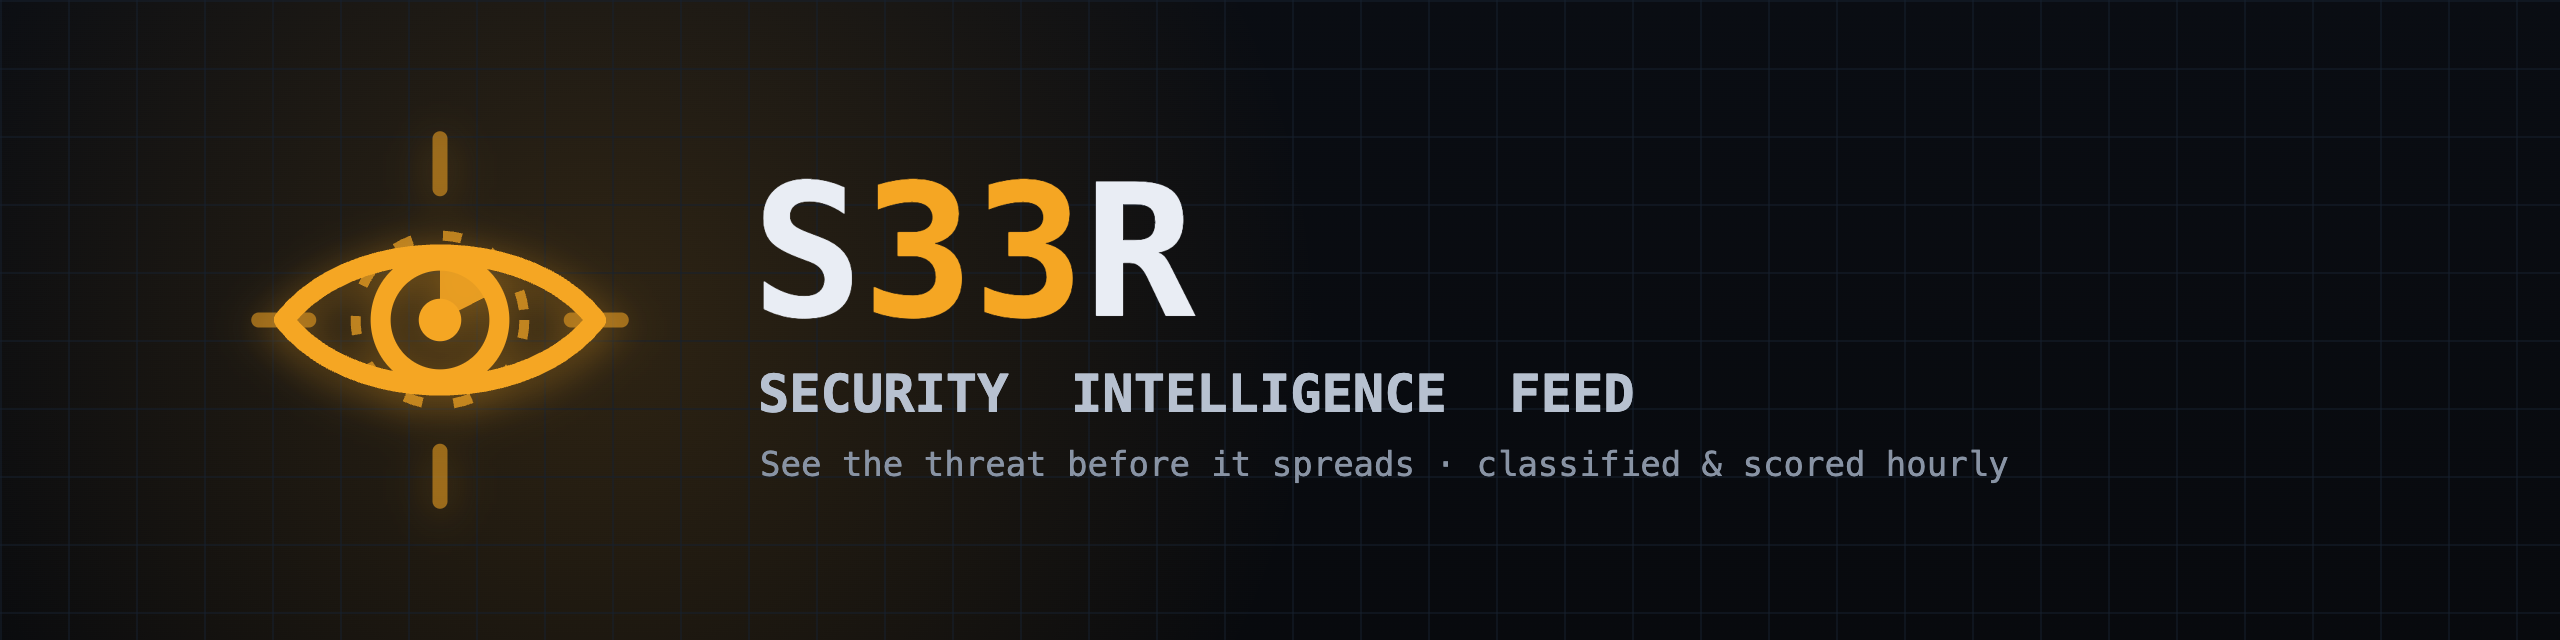
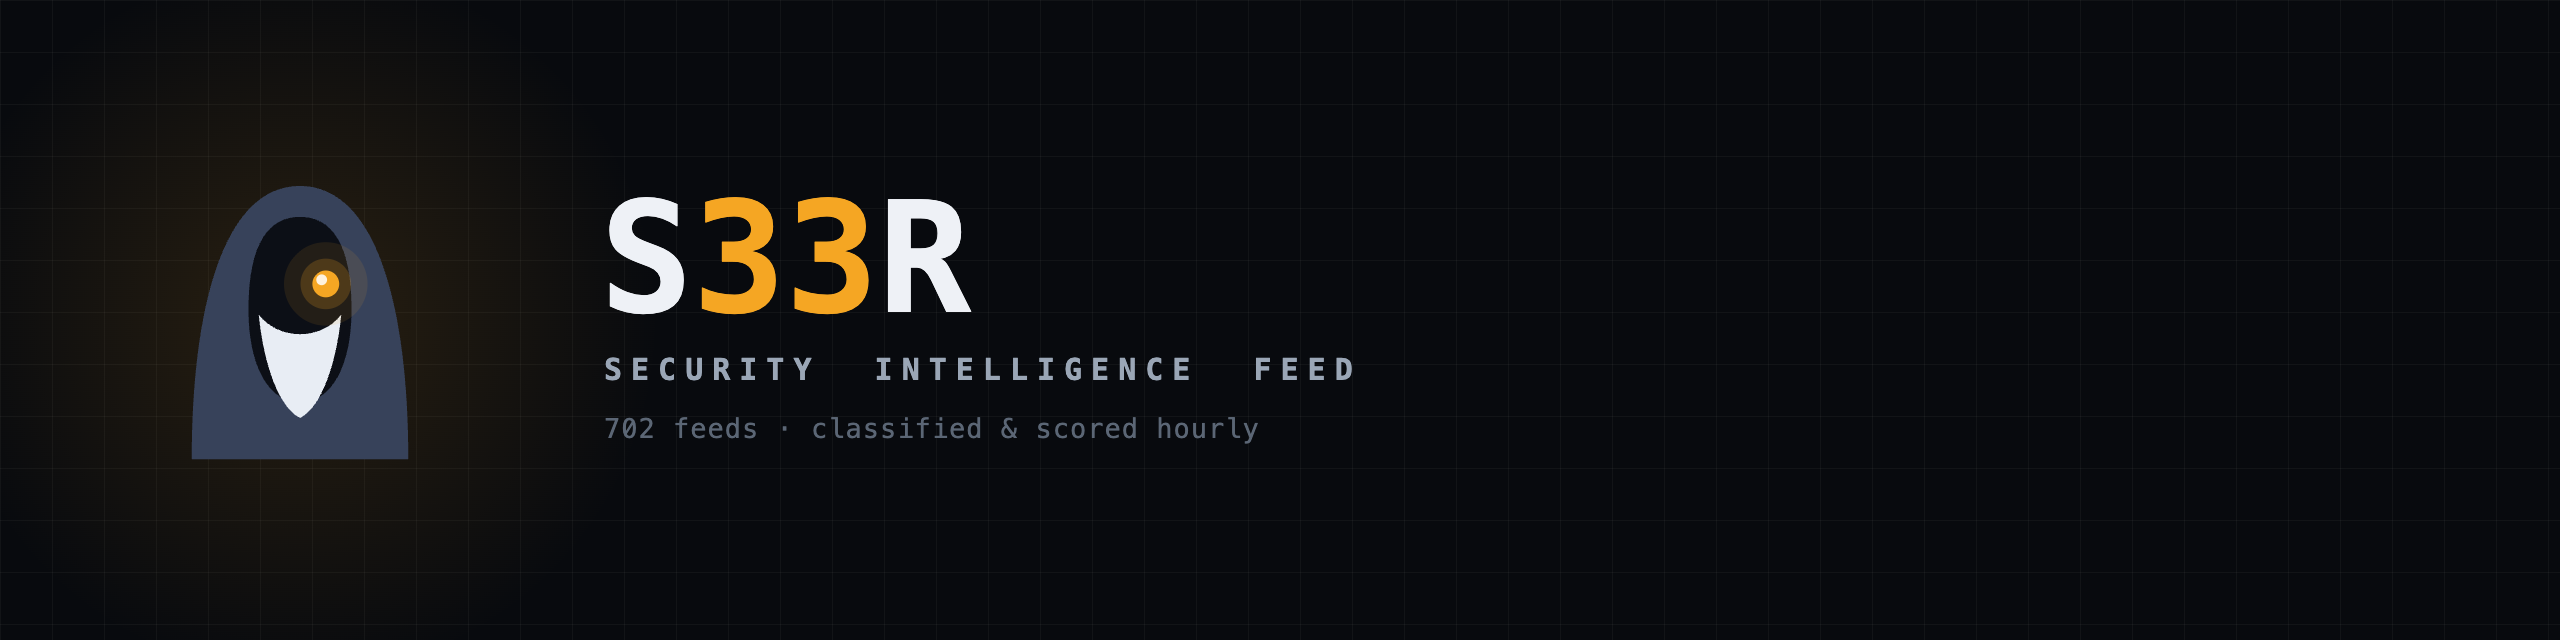
Update brand assets and documentation with new SEER identity and translations

Changed region(s): [[0.0625, 0.0312, 0.7812, 0.9375]]

diff --git a/brand/HANDOFF.md b/brand/HANDOFF.md
@@ -1,28 +1,28 @@
-# S33R - Brand Integration Handoff
+# S33R — Handoff de integração da marca
 
-Package with the **SEER** identity (surveillance eye). Below is exactly what to apply in the repo.
+Pacote com a identidade **SEER** — o vidente encapuzado de um olho. Abaixo, exatamente o que aplicar no repo. Substitui a pasta `brand/` antiga (que usava o olho/mira).
 
-## 1. Add the `brand/` folder
+## 1. Adicionar a pasta `brand/`
 
-Copy the entire `brand/` folder to the **repo root**. In the Jekyll site, it will be available at `/brand/`.
+Copie a pasta `brand/` inteira para a **raiz do repo** (no site Jekyll ela já fica acessível em `/brand/`).
 
 ```
 brand/
-├── seer-mark.svg          standalone symbol (amber, editable)
-├── logo.svg               symbol + wordmark lockup (dark theme)
-├── logo-light.svg         lockup for light backgrounds
-├── favicon.svg            vector favicon (amber tile + eye)
-├── favicon-16.png         favicon 16×16 (simplified version)
+├── seer-mark.svg          símbolo isolado, full-color (capuz + barba + olho)
+├── logo.svg               lockup símbolo + wordmark (tema escuro)
+├── logo-light.svg         lockup para fundo claro
+├── favicon.svg            favicon vetorial (tile âmbar + Seer em tinta)
+├── favicon-16.png         favicon 16×16
 ├── favicon-32.png         favicon 32×32
 ├── favicon-48.png         favicon 48×48
-├── apple-touch-icon.png   iOS icon 180×180
-├── readme-banner.png      1280×320 banner (@2x) for the README top
-└── README.md              brand sheet / snippets
+├── apple-touch-icon.png   ícone iOS 180×180
+├── readme-banner.png      banner 2560×640 (@2x) para o topo do README
+└── README.md              ficha da marca / snippets
 ```
 
-## 2. Repo README banner
+## 2. Banner no README do repo
 
-At the top of the main `README.md`:
+No topo do `README.md` principal:
 
 ```markdown
 <p align="center">
@@ -30,9 +30,9 @@ At the top of the main `README.md`:
 </p>
 ```
 
-## 3. Favicon in each page `<head>`
+## 3. Favicon no `<head>` de cada página
 
-**Standalone pages (`*.html`):**
+**Páginas standalone (`*.html`):**
 ```html
 <link rel="icon" type="image/svg+xml" href="brand/favicon.svg" />
 <link rel="icon" type="image/png" sizes="32x32" href="brand/favicon-32.png" />
@@ -40,7 +40,7 @@ At the top of the main `README.md`:
 <link rel="apple-touch-icon" href="brand/apple-touch-icon.png" />
 ```
 
-**Jekyll pages (using `relative_url`):**
+**Páginas Jekyll (usam `relative_url`):**
 ```html
 <link rel="icon" type="image/svg+xml" href="{{ '/brand/favicon.svg' | relative_url }}" />
 <link rel="icon" type="image/png" sizes="32x32" href="{{ '/brand/favicon-32.png' | relative_url }}" />
@@ -48,29 +48,30 @@ At the top of the main `README.md`:
 <link rel="apple-touch-icon" href="{{ '/brand/apple-touch-icon.png' | relative_url }}" />
 ```
 
-## 4. Replace the shield with the SEER eye in the rail
+## 4. Trocar o ícone do rail pelo Seer encapuzado
 
-The rail is mounted in **`s33r-nav.js`**. Two changes:
+O rail é montado em **`s33r-nav.js`**. O chip `.rail-logo` é âmbar com conteúdo em tinta — então o Seer entra como silhueta `currentColor` e o **olho é um furo** (`fill-rule:evenodd`) por onde o âmbar do chip aparece e "acende".
 
-**(a)** add the `seer` icon to the `ICONS` object:
+**(a)** adicione/atualize o ícone `seer` no objeto `ICONS` (viewBox 64):
 ```js
-seer: '<path d="M7 32 C18 18 46 18 57 32 C46 46 18 46 7 32 Z" fill="none" stroke="currentColor" stroke-width="3.6" stroke-linejoin="round"/><circle cx="32" cy="32" r="9.5" fill="none" stroke="currentColor" stroke-width="3.6"/><path d="M32 32 L32 22.5 A9.5 9.5 0 0 1 40.7 27.6 Z" fill="currentColor"/><circle cx="32" cy="32" r="3.4" fill="currentColor"/>',
+seer: '<path fill="currentColor" fill-rule="evenodd" d="M11 59 C11 30 17 6 32 6 C47 6 53 30 53 59 Z M37 22 a3 3 0 1 0 0 6 a3 3 0 1 0 0 -6 Z"/>',
 ```
 
-**(b)** replace the `<a class="rail-logo">` so it uses the new icon (viewBox 64):
+**(b)** troque o `<a class="rail-logo">` para usar o novo ícone (note `fill`, sem `stroke`):
 ```js
-`<a class="rail-logo" href="${hrefFor("S33R Feed.html", "")}" title="S33R — the SEER"><svg width="25" height="25" viewBox="0 0 64 64" fill="none" stroke-linecap="round">${ICONS.seer}</svg></a>`
+`<a class="rail-logo" href="${hrefFor("S33R Feed.html", "")}" title="S33R — the SEER"><svg width="26" height="26" viewBox="0 0 64 64">${ICONS.seer}</svg></a>`
 ```
 
-For pages with an **inline** rail (for example the home `index.html`), replace the shield SVG inside `.rail-logo` / `.nav-brand` with the same `seer` content (viewBox `0 0 64 64`).
+Para páginas com o rail **inline** (ex.: `index.html` da home), substitua o SVG dentro de `.rail-logo` / `.nav-brand` pelo mesmo conteúdo do `seer` (viewBox `0 0 64 64`, `fill`).
 
-## 5. Colors
+## 5. Cores
 
-| Token | Value |
+| Token | Valor |
 |---|---|
-| Amber (brand) - dark theme | `#f5a623` |
-| Amber (brand) - light theme | `#c9790a` |
-| Ink (on amber) | `#1b1304` |
-| Dark background | `#080a0e` |
+| Âmbar (brand) — tema escuro | `#f5a623` |
+| Âmbar (brand) — tema claro | `#c9790a` |
+| Ink (sobre âmbar) | `#1b1304` |
+| Capuz / barba / sombra (mark full-color) | `#37425a` · `#e8edf4` · `#0c0f16` |
+| Fundo escuro | `#080a0e` |
 
-> Note: the 16px favicon uses a minimal eye drawing (without reticle/ring) so it reads well at that size; 32px+ show the full mark.
+> Obs.: o favicon usa o Seer em tinta sobre tile âmbar com o olho âmbar destacado — lê bem de 48px a 16px. **Um só olho acende; nada de multiplicar cores quentes.**

diff --git a/brand/README.md b/brand/README.md
@@ -5,21 +5,21 @@
 
 # S33R — Brand Kit
 
-**The SEER.** S33R is leet for *SEER* (one who sees). The symbol is a technical eye scanning for threats: almond-shaped outline, radar-sweep iris, and targeting reticle. Amber palette (`#f5a623`) on a dark background (`#080a0e`), with a monospace stroke style that matches the UI.
+**The SEER.** S33R é leet para *SEER* (aquele que vê). A marca é **um vidente encapuzado** — um guardião do conhecimento que lê os sinais antes dos outros. Silhueta de capuz geométrica, barba clara e **um único olho âmbar que brilha** (`#f5a623`) sobre fundo escuro (`#080a0e`). Sem mira, sem escudo, sem cadeado — o personagem *é* a identidade. Wordmark monospace, coerente com a UI.
 
-## Files
+## Arquivos
 
-| File | Use |
+| Arquivo | Uso |
 |---|---|
-| `readme-banner.png` | README top banner (1280×320 @2x) |
-| `seer-mark.svg` | Standalone editable symbol (amber) |
-| `logo.svg` | Symbol + wordmark lockup (dark theme) |
-| `logo-light.svg` | Lockup for light backgrounds |
-| `favicon.svg` | Vector favicon (amber tile + eye) |
+| `readme-banner.png` | Banner do topo do README (2560×640 @2x) |
+| `seer-mark.svg` | Símbolo isolado, full-color (capuz + barba + olho) |
+| `logo.svg` | Lockup símbolo + wordmark (tema escuro) |
+| `logo-light.svg` | Lockup para fundo claro |
+| `favicon.svg` | Favicon vetorial (tile âmbar + Seer em tinta) |
 | `favicon-16.png` / `favicon-32.png` / `favicon-48.png` | Favicons raster |
-| `apple-touch-icon.png` | iOS icon (180×180) |
+| `apple-touch-icon.png` | Ícone iOS (180×180) |
 
-## README Banner
+## Banner no README
 
 ```markdown
 <p align="center">
@@ -27,7 +27,7 @@
 </p>
 ```
 
-## Favicon in `<head>`
+## Favicon no `<head>`
 
 ```html
 <link rel="icon" type="image/svg+xml" href="brand/favicon.svg" />
@@ -36,8 +36,12 @@
 <link rel="apple-touch-icon" href="brand/apple-touch-icon.png" />
 ```
 
-## Colors
+## Cores
 
-- Amber (brand): `#f5a623` - use `#c9790a` on light themes
-- Ink (on amber): `#1b1304`
-- Dark background: `#080a0e`
+- Âmbar (brand): `#f5a623` — em tema claro use `#c9790a`
+- Olho / acento: âmbar `#f5a623` (único ponto de cor quente)
+- Capuz (escuro): `#37425a` · Barba: `#e8edf4` · Sombra do rosto: `#0c0f16`
+- Ink (sobre âmbar): `#1b1304`
+- Fundo escuro: `#080a0e`
+
+> **Regra de ouro:** um — e apenas um — olho âmbar acende. O resto do mascote é neutro. Não multiplicar cores quentes.
